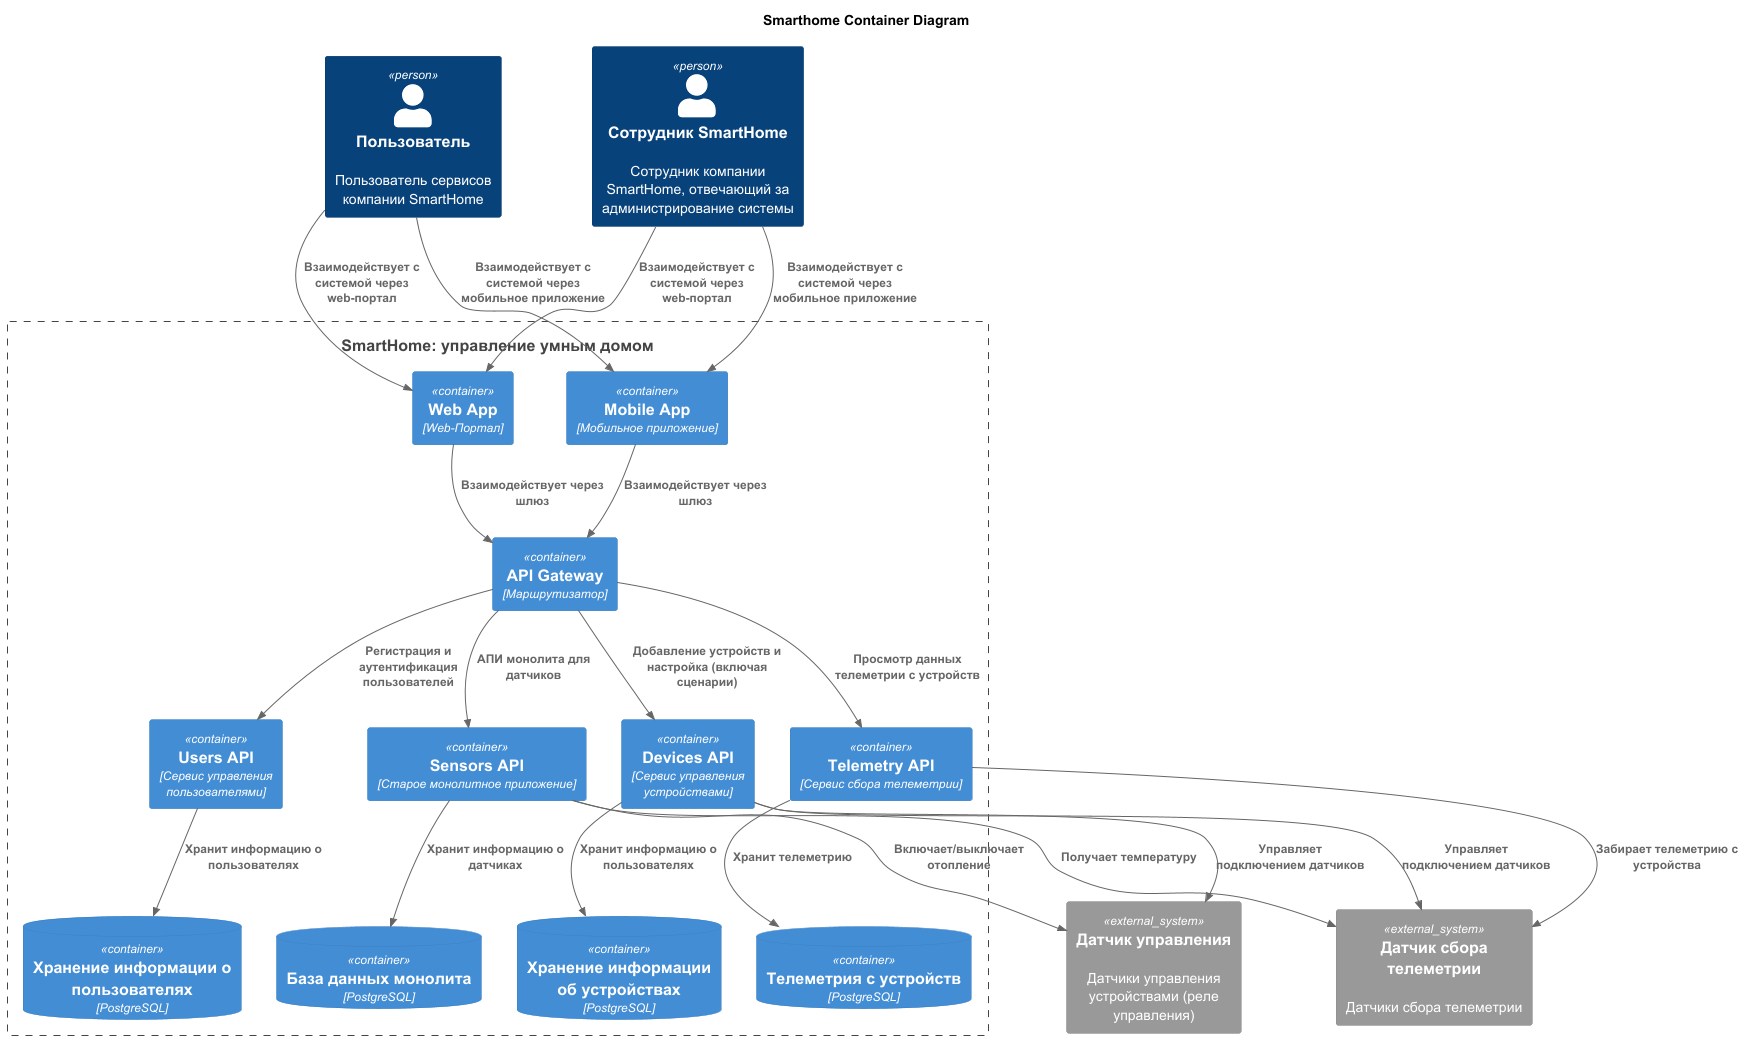
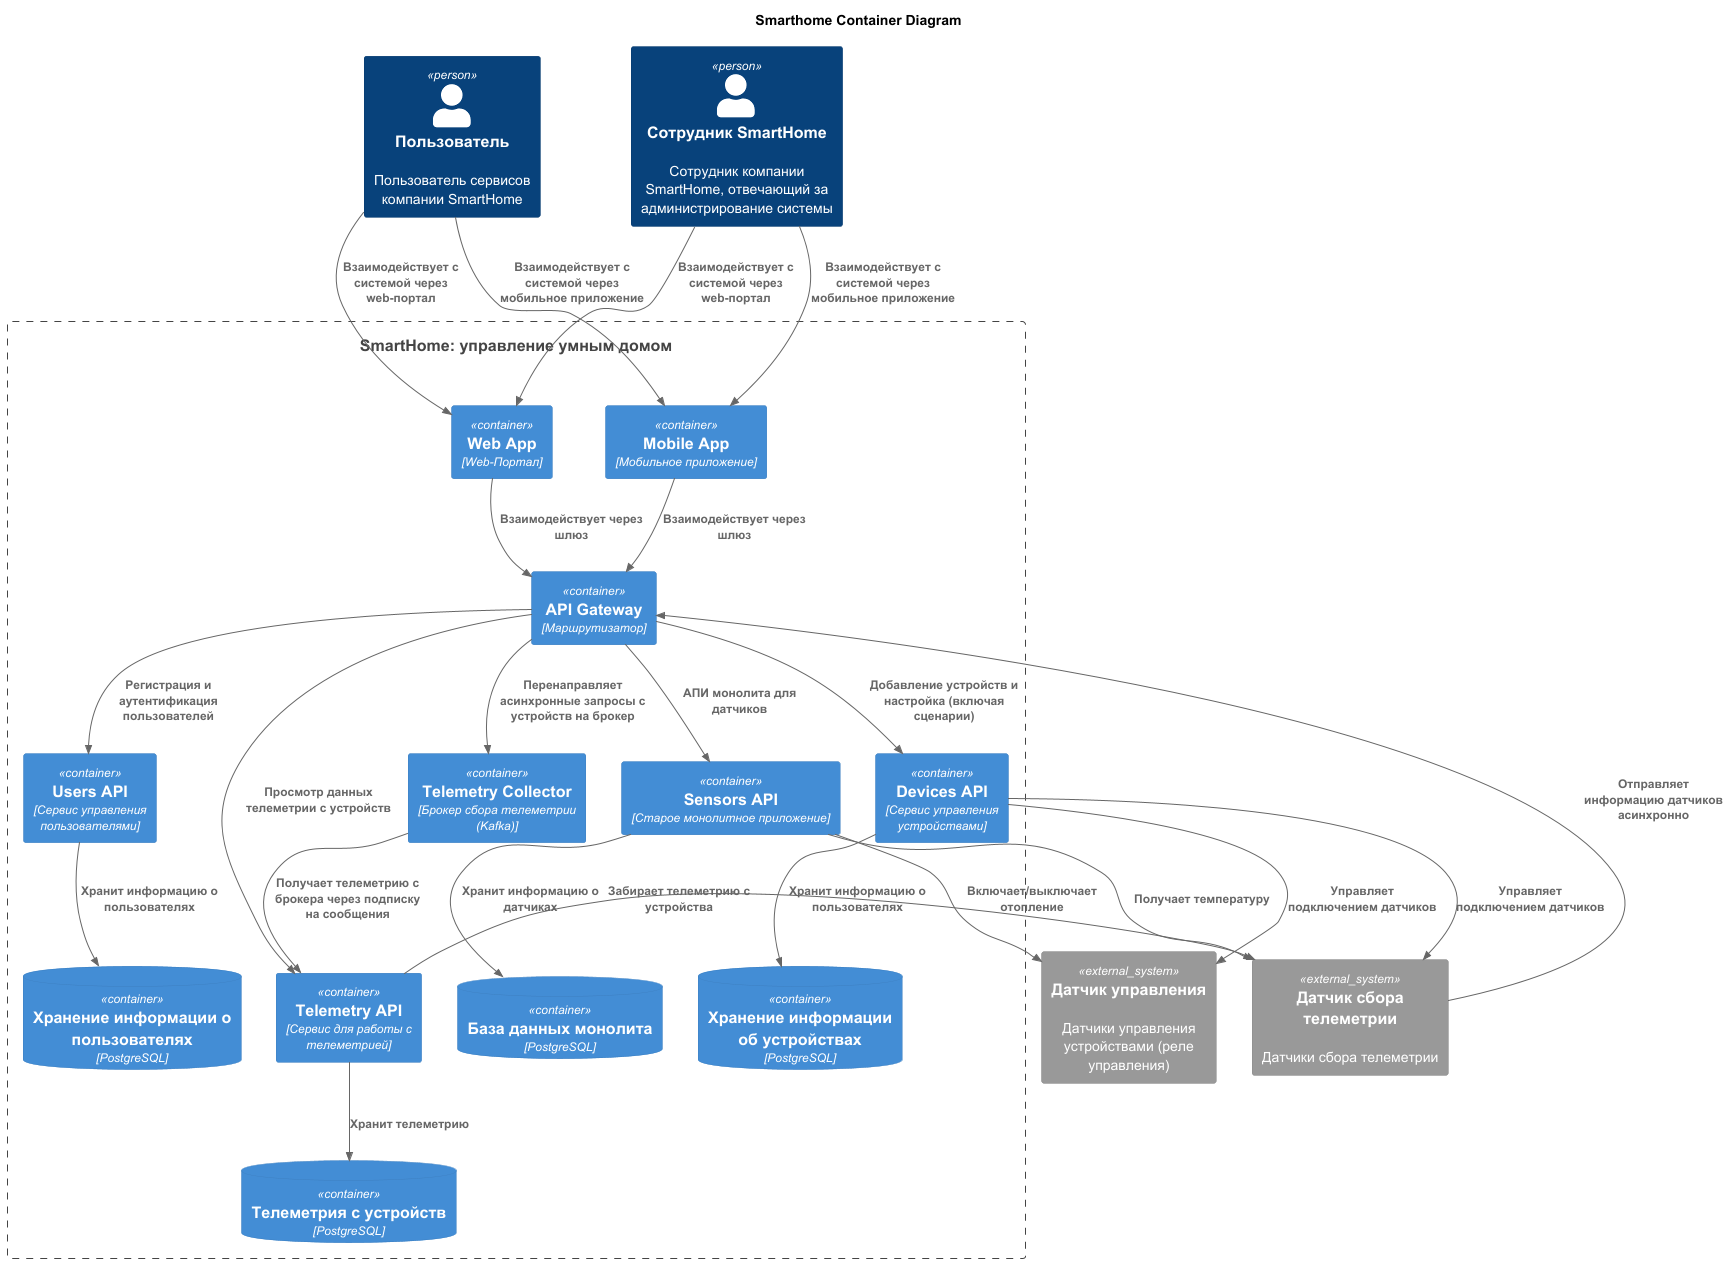
Исправление замечений по ревью

Changed region(s): [[0.0, 0.0, 0.937, 1.0], [0.9057, 0.8, 0.9994, 0.8615], [0.937, 0.6154, 0.9994, 0.6462]]

diff --git a/README.md b/README.md
@@ -52,6 +52,10 @@
 
 ![Диаграмма компонентов Telemetry API](./schemas/task2_telemetry_component.png)
 
+**Диаграмма классов для сервиса Devices++
+
+![Диаграмма классов](./schemas/task2_code.png)
+
 # Задание 3. Разработка ER-диаграммы
 
 Добавьте сюда ER-диаграмму. Она должна отражать ключевые сущности системы, их атрибуты и тип связей между ними.
@@ -62,11 +66,14 @@
 
 ### 1. Тип API
 
-В первой итерации будем использовать взаимодействие по протоколу HTTPS/JSON с использованием REST API. Выбран как наиболее простой способ для быстрой реализации. В дальнейшем можно рассмотреть другие механизмы. Проблемное место - сбор телеметрии. Возможно, стоит проработать асинхронное взаимодействие для этой области в дальнейшем.  
+В первой итерации будем использовать взаимодействие по протоколу HTTPS/JSON с использованием REST API. Выбран как наиболее простой способ для быстрой реализации. В дальнейшем можно рассмотреть другие механизмы. Проблемное место - сбор телеметрии. Для асинхронного взаимодействия будем использовать брокер для сбора данных.
+
+В документацию API добавлены два описания: 1. Описание синхронного REST API сервиса телеметрии и описание асинхронной ручки для сбора телеметрии. 
 
 ### 2. Документация API
 
-- **[Документация для сервиса Телеметрии](./apps/telemetry_api/openapi.yaml)**
+- **[Документация для REST API Телеметрии](./apps/telemetry_api/openapi.yaml)**
+- **[Документация для асинхронного сервиса сбора Телеметрии](./apps/telemetry_api/asyncapi.yaml)**
 
 # Задание 5. Работа с docker и docker-compose
 
